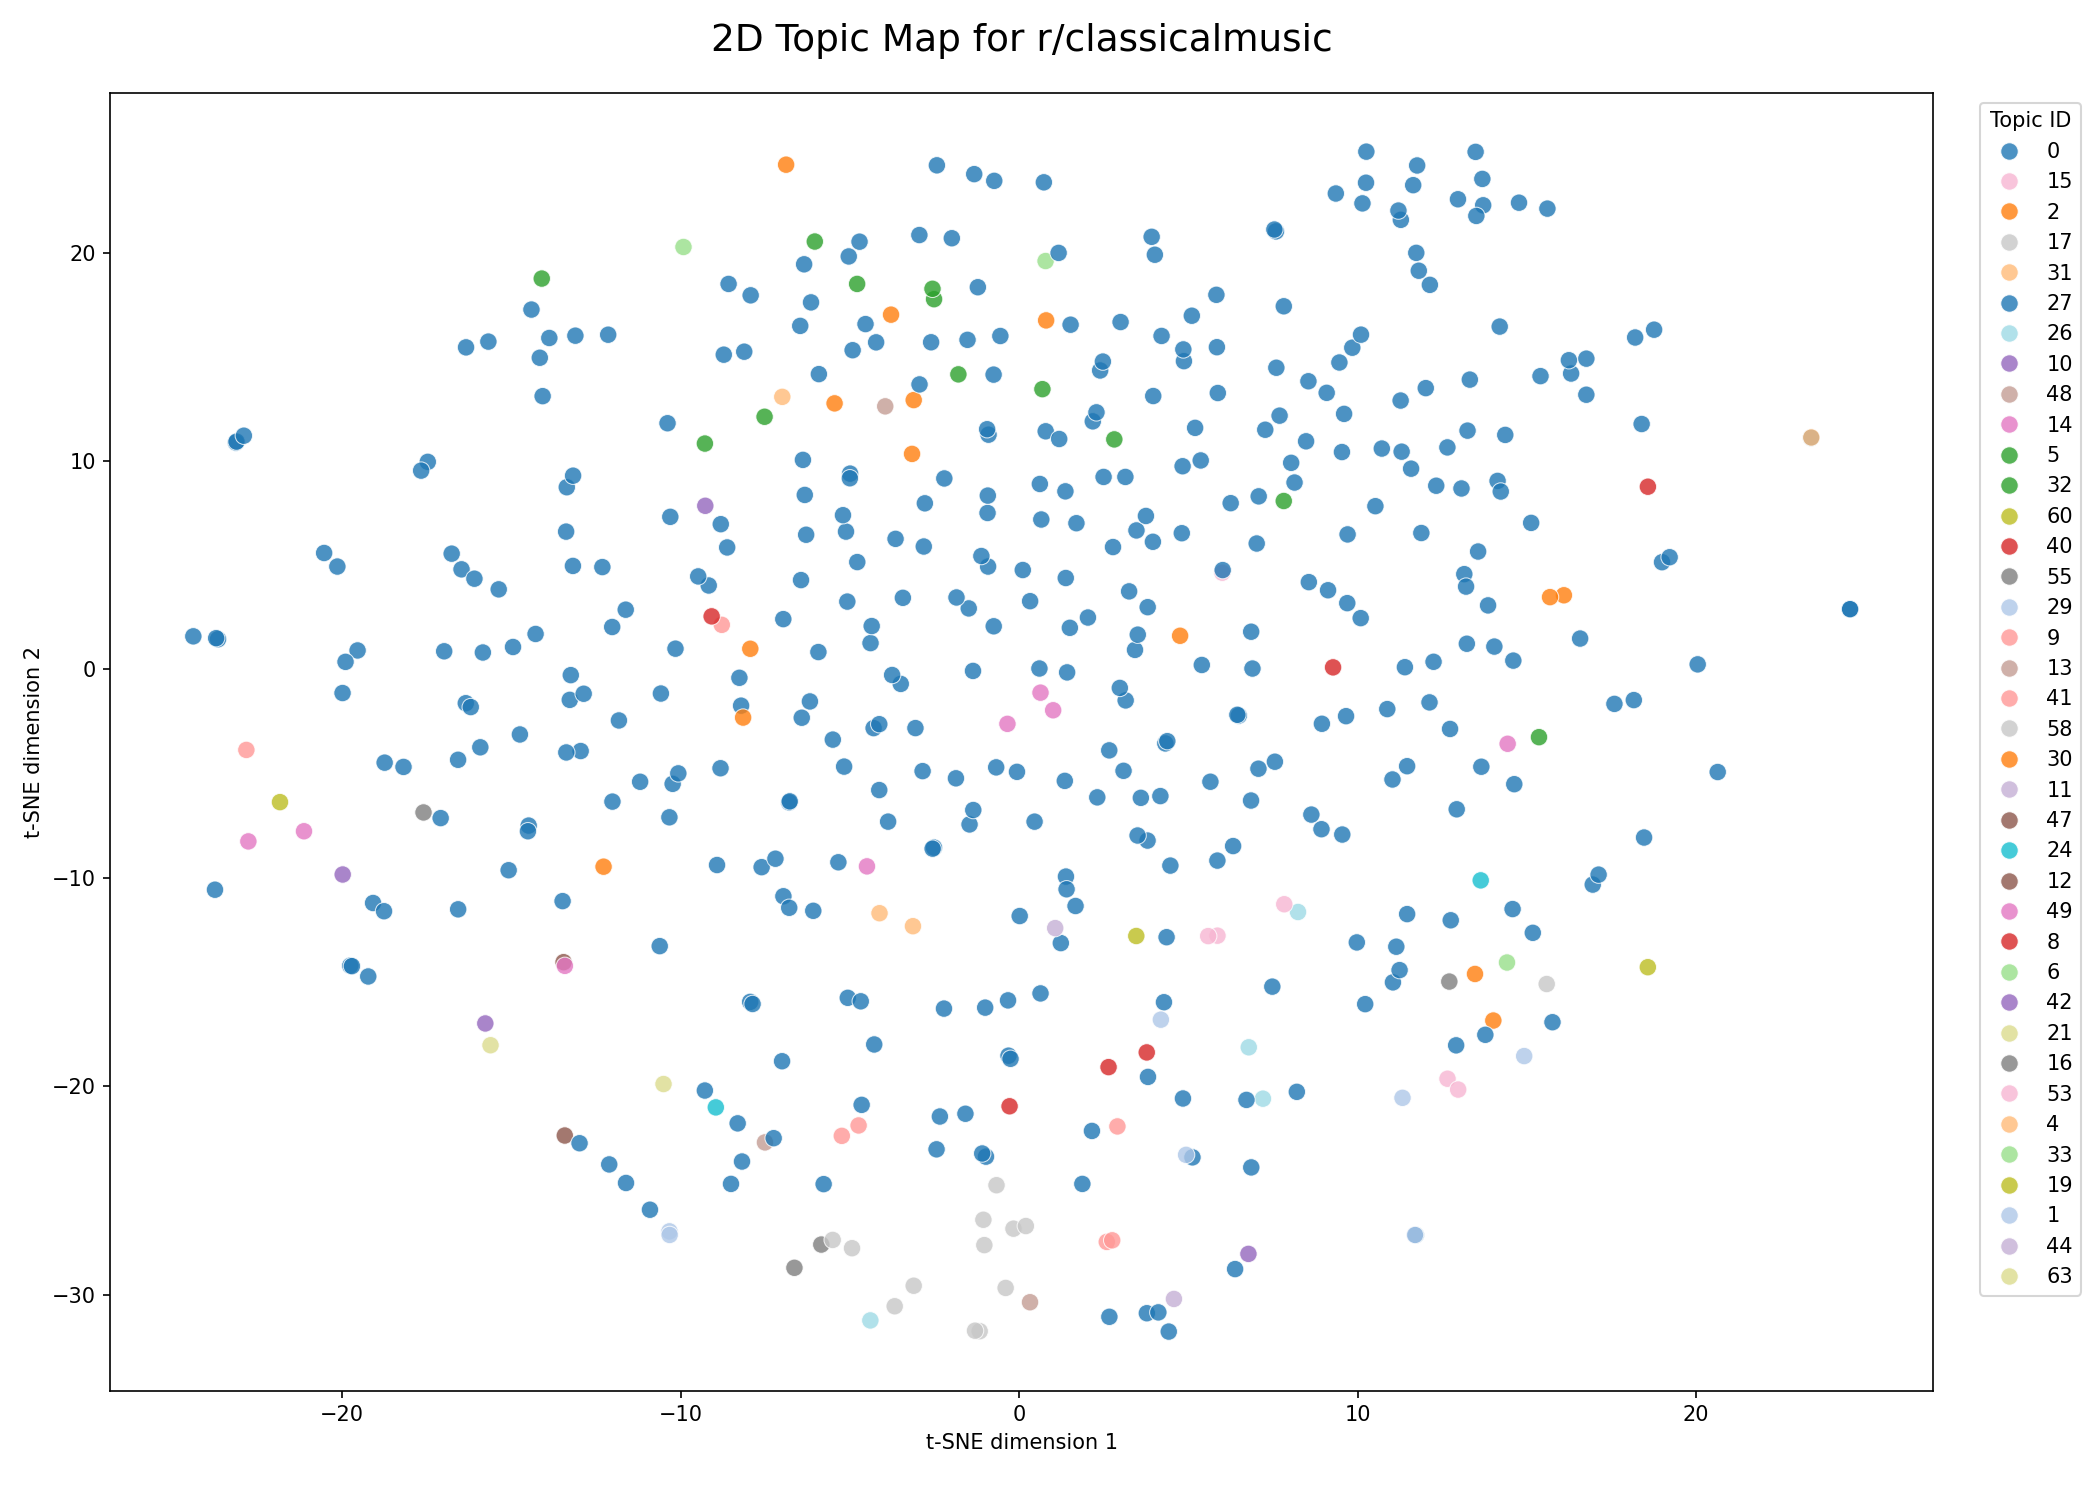
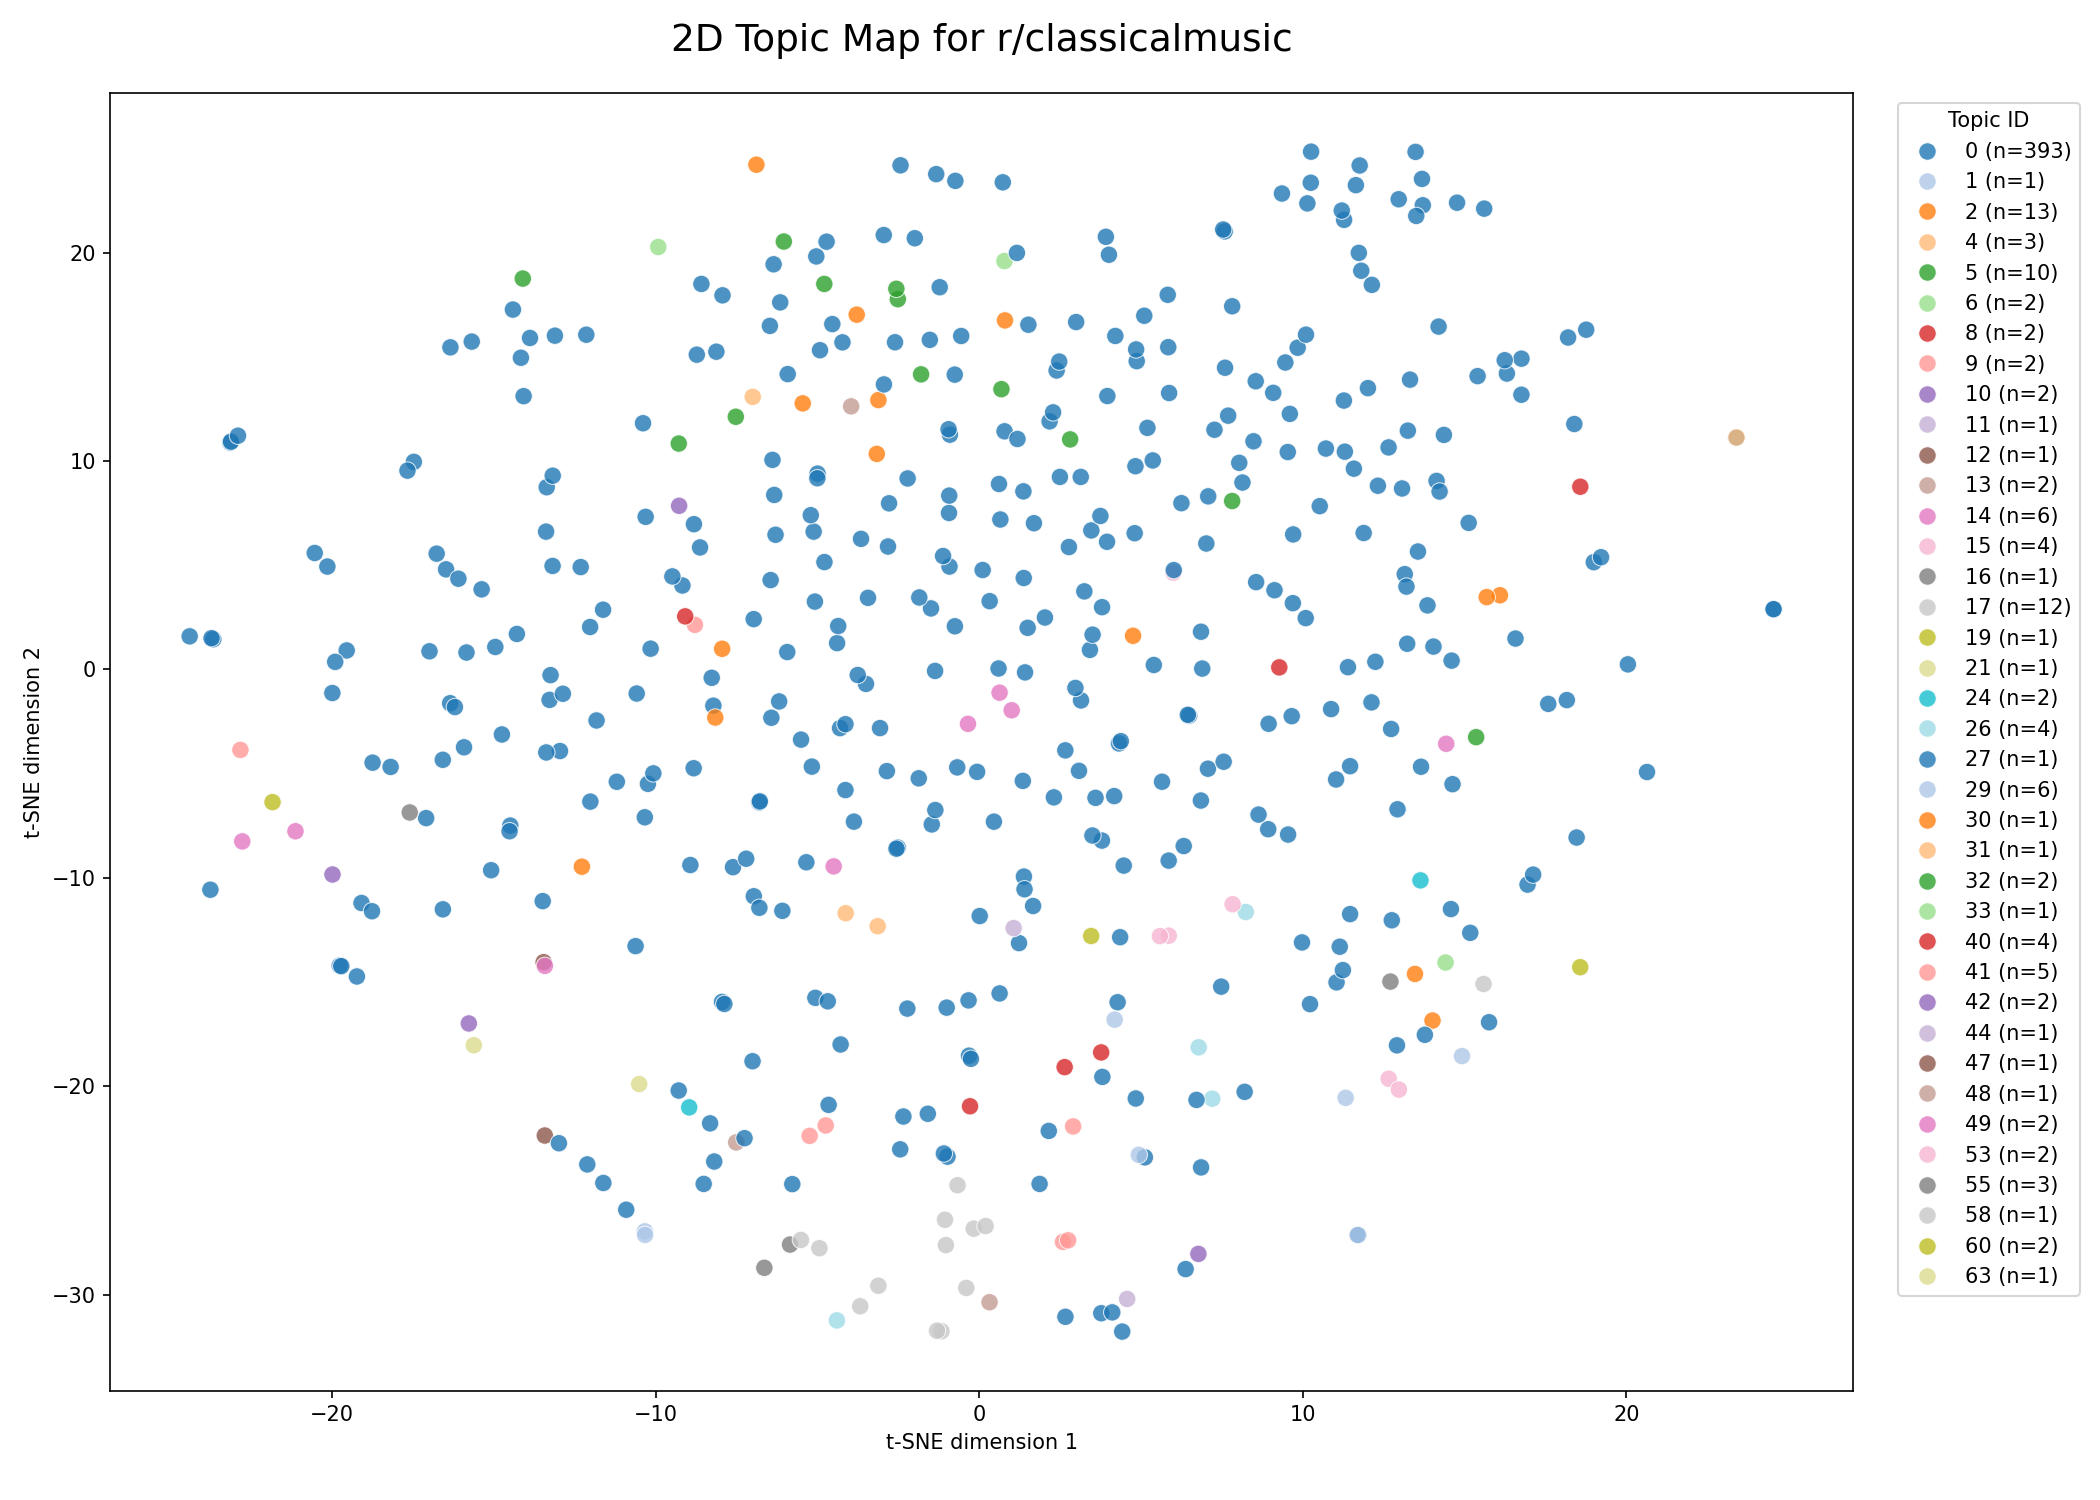
Enhance t-SNE visualization by adding topic labels with counts for better clarity in scatter plots. Update hue mapping to reflect new labels and improve outlier representation. Update binary image files for classical music and J-Pop visualizations.

diff --git a/2D visualization/tsne_visualization.py b/2D visualization/tsne_visualization.py
@@ -30,7 +30,16 @@ def generate_map(posts_df, community_name, output_dir):
     
     community_posts['x'] = tsne_results[:, 0]
     community_posts['y'] = tsne_results[:, 1]
-    community_posts['topic_str'] = community_posts['topic'].astype(str)
+    # Calculate topic counts and create labels
+    topic_counts = community_posts['topic'].value_counts()
+    
+    def get_label(topic):
+        count = topic_counts.get(topic, 0)
+        if topic == -1:
+            return f"Outliers (-1) (n={count})"
+        return f"{topic} (n={count})"
+
+    community_posts['topic_label'] = community_posts['topic'].apply(get_label)
     
     plt.figure(figsize=(14, 10))
     
@@ -38,22 +47,23 @@ def generate_map(posts_df, community_name, output_dir):
     valid_topics = [t for t in unique_topics if t != -1]
     
     palette = {}
+    hue_order = []
     if valid_topics:
         colors = sns.color_palette("tab20", len(valid_topics))
         for i, topic in enumerate(valid_topics):
-            palette[str(topic)] = colors[i]
-    
-    if -1 in unique_topics:
-        palette['-1'] = '#d3d3d3'
+            label = get_label(topic)
+            palette[label] = colors[i]
+            hue_order.append(label)
         
     outliers = community_posts[community_posts['topic'] == -1]
     if not outliers.empty:
-        plt.scatter(outliers['x'], outliers['y'], c='#d3d3d3', label='Outliers (-1)', alpha=0.5, s=40)
+        outlier_label = get_label(-1)
+        plt.scatter(outliers['x'], outliers['y'], c='#d3d3d3', label=outlier_label, alpha=0.5, s=40)
         
     valid_posts = community_posts[community_posts['topic'] != -1]
     if not valid_posts.empty:
         sns.scatterplot(
-            data=valid_posts, x='x', y='y', hue='topic_str', palette=palette,
+            data=valid_posts, x='x', y='y', hue='topic_label', palette=palette, hue_order=hue_order,
             legend='full', alpha=0.8, s=70, edgecolor='white', linewidth=0.5
         )
     
